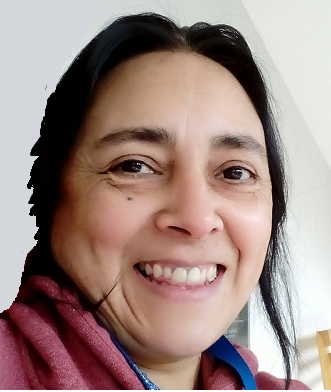
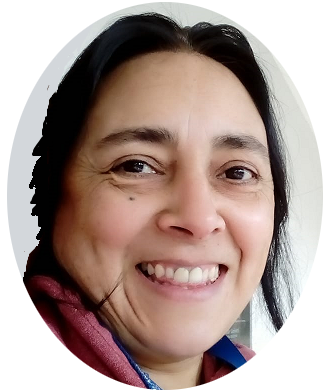
experiencia laboral

diff --git a/prueba.html b/prueba.html
@@ -6,7 +6,9 @@
         <style>
             body {background-color: rgb(145, 218, 243);}
             h2   {color: rgb(7, 7, 7);}
-            p    {color: rgb(27, 25, 25);border: 1px solid rgb(18, 20, 20); padding: 30px;}
+            h3  {color: rgb(20, 20, 20);}
+            h4   {color: rgb(7, 7, 7);}
+            p    {color: rgb(27, 25, 25);}
             .myHeader {
                 border: 1px outset rgb(24, 22, 22);
                 background-color: rgba(173, 216, 230, 0.014);
@@ -23,10 +25,30 @@
                 }
 
             .my {
-                background-color: rgba(173, 216, 230, 0.062);
-                margin: 100px;
+                
+                border: 1px outset rgb(24, 22, 22);
+                background-color: lightblue;
+                text-align: left;
+                padding-right: 1em;
+                border-radius: 5px;
                 
             }
+            .foto{
+                  position:absolute;
+                  height:200px;
+                  width:200px;
+                  top: 200px;
+                  left : 40px;
+                  z-index: 1;
+                }
+
+            .fondo
+            {
+              position:absolute;
+              height:300px;
+              width:300px;
+              z-index: -1;
+}
             </style>
             <meta name="viewport" content="width=device-width, initial-scale=1">
             <link rel="stylesheet" href="https://cdn.jsdelivr.net/npm/bootstrap@4.6.1/dist/css/bootstrap.min.css">
@@ -53,25 +75,122 @@
               </table>
             
         </div>
-        <div class="myDiv">
-            <table style="width:100%">
-                <tr>
-                  <td> <img src="ciudad.jpg "  width=1578px height=300px aling="center" class="rounded"></td>
-                  
-                </tr>
-                <tr>
-                <td><img src="yo.png"  width=300 height=300 class="rounded-circle" ></td>
-                  
-                  
-                </tr>
-                <td> <h2>Maria Beatriz Aguirre</h2></td>
-              </table>
+        <div style="position: relative; left: 0; top: 0;" class="myDiv">
+             <img src="ciudad.jpg "  width=1598px height=300px aling="center" class="rounded" class='fondo'/>
+             <img src="yo.png"  width=300 height=300  class='foto'/>
+             
+         </div>          
+         <div class="my">
+          <table style="width:100%">
+            <tr>
+              <td style="width:30px"><p>  </p> </td>
+              <td style="height:80px"> <h2> </h2> </td>
+              <td style="width:80px"><p>  </p> </td>
+               <td><p>  </p> </td>
+            </tr>
+            <tr>
+              <td style="height:30px"><p>  </p> </td>
+              <td style="height:70px"> <h2>Maria Beatriz Aguirre</h2> </td>
+              <td><p>  </p> </td>
+              <td><h4>   Presentación</h4> </td>
+            </tr>
+            <tr >
+              <td > </td>
+              <td style="height:30px" > <h4>Full Stack Developer Jr</h4> </td>
+              <td><p>  </p> </td>
+              <td ><h5> 
+                Desde muy joven siento fascinación por la tecnología, sus avances y sus aplicaciones.
+              </h5> </td>
+            </tr>
+            <tr >
+              <td > </td>
+              <td style="height:30px" > <h4></h4> </td>
+              <td><p>  </p> </td>
+              <td ><h5> 
+                Disfruto de aprender constantemente cosas nuevas y tratar de acompañar el cambio tecnologico.
+              </h5> </td>
+            </tr>
+            <tr >
+              <td > </td>
+              <td style="height:30px" > <h4></h4> </td>
+              <td><p>  </p> </td>
+              <td ><h5> 
+                Combino estos interes personales con la docencia e intento apasionar a mis alumnos en este entorno.
+              </h5> </td>
+            </tr>
+          </table>
+         
         </div>
-        <div class="my">
-           
-        </div>
-        <p> 
-     Mi primer archivo en github </p>
+        <div style="position: relative; left: 0; top: 0;" class="my">
+          <table>
+            <tr>
+              <th></th>
+              <th colspan="4" >
+              <h3>Experiencia laboral</h3>
+               </th>
+            </tr>
+            <tr >
+              <th ></th> 
+              <th rowspan="3"><p>  <img src="poli.png"  width=200 height=180></p></th> 
+              
+            </tr>
+            <td style="width:30px"><p></p> </td>
+              <td ><p> <b>•	Desde 2018 profesora de Escuela Secundaria Especializada en Arte Nro. 1 </b> </p> </td> 
+            <tr>
+              <td ><p></p> </td>
+              <td style="height: 5px;"><p>Asignatura: Nticx (Nuevas Tecnologías de la información y la conectividad)</p> </td>  
+            </tr>
+            <tr>
+              <td ><p></p> </td>
+              <td ><p></p> </td>  
+            </tr> 
+            <tr>
+              <td ><p></p> </td>
+              <td ><p></p> </td>  
+            </tr> 
+          <!--segundo trabajo-->
+          <tr><td> </td></tr>
+            <tr >
+              <th style="width:30px"></th> 
+              <th rowspan="3"><p>  <img src="tecnica2.png"  width=150 height=150></p></th> 
+             </tr>
+            <td style="width:30px"><p></p> </td>
+              <td ><p> <b>•	Desde 2018 profesora de Escuela de Enseñanza Secundaria Técnica Nro. 2</b> </p> </td> 
+            <tr>
+              <td ><p></p> </td>
+              <td style="height: 5px;"><p>Asignatura: Laboratorio de Programación - 6to Año (Poo en c++)</p> </td>  
+            </tr>
+             <tr>
+              <td ><p></p> </td>
+              <td ><p></p> </td>  
+            </tr> 
+            <tr>
+              <td ><p></p> </td>
+              <td ><p></p> </td>  
+            </tr> 
+             <!--tercer trabajo-->
+          <tr><td> </td></tr>
+          <tr >
+            <th style="width:30px"></th> 
+            <th rowspan="3"><p>  <img src="tecnica4.png"  width=150 height=150></p></th> 
+           </tr>
+          <td style="width:30px"><p></p> </td>
+            <td ><p> <b>•	Desde 2019 profesora de Escuela de Enseñanza Secundaria Técnica Nro. 4</b> </p> </td> 
+          <tr>
+            <td ><p></p> </td>
+            <td style="height: 5px;"><p>Asignatura: Lenguajes Tecnológicos - 3er. Año</p> </td>  
+          </tr>
+          <tr>
+            <td ><p></p> </td>
+            <td ><p></p> </td>  
+          </tr> 
+          <tr>
+            <td ><p></p> </td>
+            <td ><p></p> </td>  
+          </tr> 
+          </table>
+          
+      </div> 
     </body>
 </html>
 
